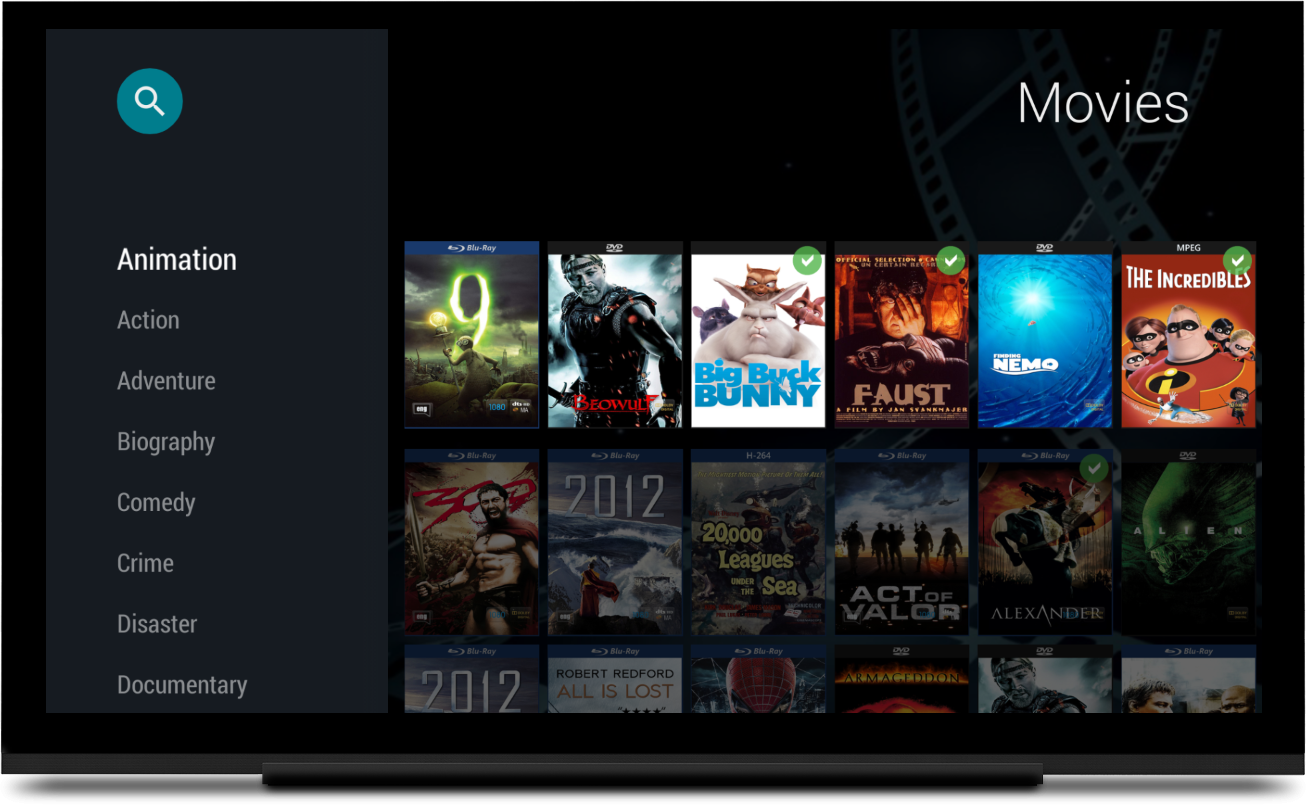
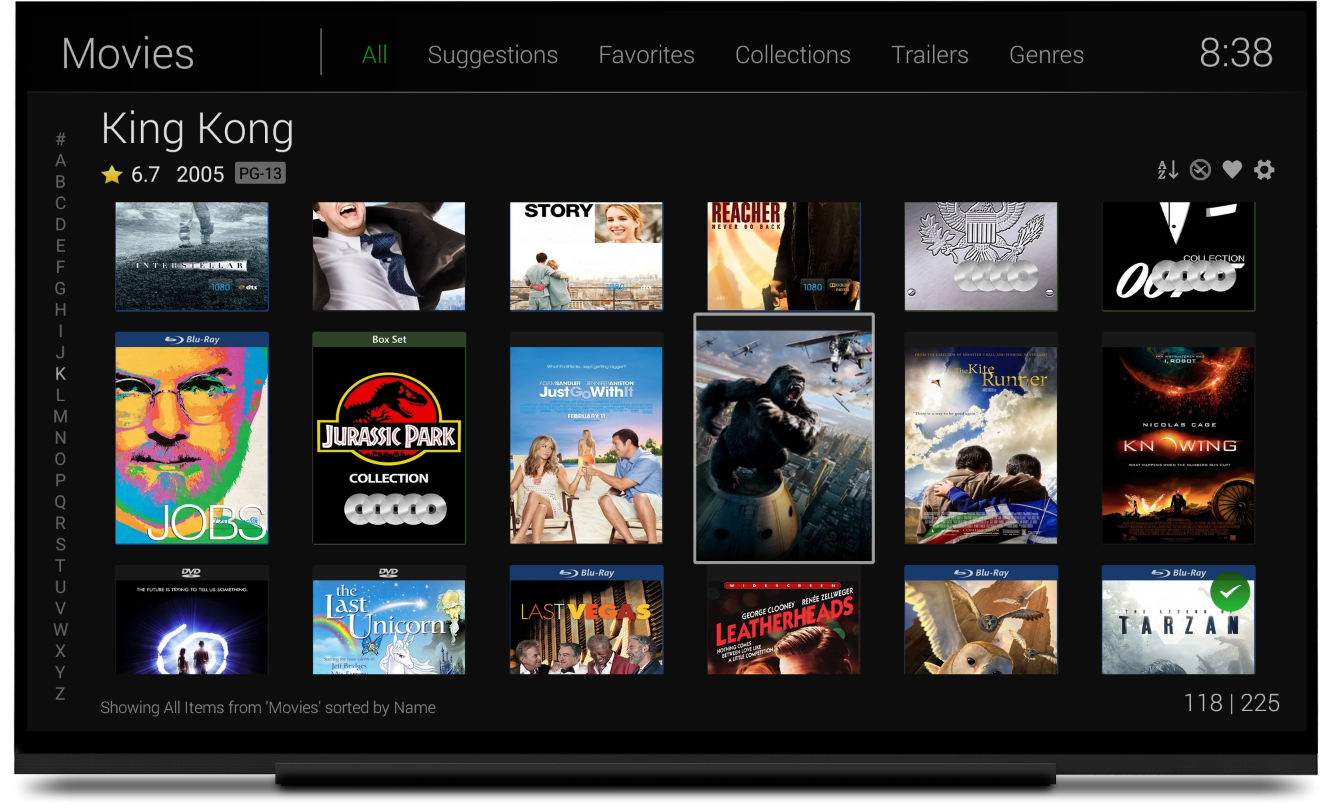
Update Android/Fire TV pages

diff --git a/src/emby-for-fire-tv.html b/src/emby-for-fire-tv.html
@@ -1,10 +1,10 @@
 <!DOCTYPE html>
-<!-- saved from url=(0046)https://emby.media/downloads/emby-for-fire-tv/ -->
+<!-- saved from url=(0049)emby-for-android-tv.html -->
 <html prefix="og: http://ogp.me/ns#" class="no-touch" lang="en-US">
 <head itemscope itemtype="http://schema.org/Article">
     <meta http-equiv="Content-Type" content="text/html; charset=UTF-8">
     <meta charset="UTF-8">
-    <title>Emby for Amazon Fire TV - Emby</title>
+    <title>Emby for Fire TV - Emby</title>
 
     <meta name="viewport" content="width=device-width, initial-scale=1, maximum-scale=1">
     <meta name="description" content="media server for personal streaming movies tv music photos in mobile app or browser for all devices android iOS windows phone appletv androidtv smarttv and dlna">
@@ -286,8 +286,8 @@
     <script type="text/javascript" src="resources/ultimate-params.min.js"></script>
 
 
-    <link rel="prev" title="Emby for iOS" href="emby-for-ios.html">
-    <link rel="next" title="Emby for Android" href="emby-for-android-mobile.html">
+    <link rel="prev" title="Emby for Android" href="emby-for-android-mobile.html">
+    <link rel="next" title="Emby Web Client" href="emby-web-client.html">
     <!--[if IE 8]><link rel="stylesheet" type="text/css" href="resources/vc-ie8.css" media="screen"><![endif]-->
     <link rel="apple-touch-icon" sizes="57x57" href="apple-touch-icon-57x57.png">
     <link rel="apple-touch-icon" sizes="60x60" href="apple-touch-icon-60x60.png">
@@ -323,7 +323,7 @@
         /** Ultimate: Media Responsive - **/
     </style>
 </head>
-<body class="single single-us_portfolio postid-5252 l-body us-theme_zephyr_1-6 wpb-js-composer js-comp-ver-4.5.2 vc_responsive hasGoogleVoiceExt">
+<body class="single single-us_portfolio postid-5249 l-body us-theme_zephyr_1-6 wpb-js-composer js-comp-ver-4.5.2 vc_responsive hasGoogleVoiceExt">
     <!-- CANVAS -->
     <div class="l-canvas type_wide col_cont headerlayout_extended headerpos_fixed">
 
@@ -411,11 +411,11 @@
             <div class="l-submain for_pagehead color_alternate size_large" style="padding-top: 140px;">
                 <div class="l-submain-h g-html i-cf">
                     <div class="w-pagehead">
-                        <h1>Emby for Amazon Fire TV</h1>
+                        <h1>Emby for Fire TV</h1>
                         <div class="w-pagehead-nav">
                             <div class="w-pagehead-nav-h">
-                                <a class="w-pagehead-nav-item type_prev" href="emby-for-android-mobile.html" title="Emby for Android"><i class="mdfi_navigation_chevron_left"></i></a>
-                                <a class="w-pagehead-nav-item type_next" href="emby-for-ios.html" title="Emby for iOS"><i class="mdfi_navigation_chevron_right"></i></a>
+                                <a class="w-pagehead-nav-item type_prev" href="emby-web-client.html" title="Emby Web Client"><i class="mdfi_navigation_chevron_left"></i></a>
+                                <a class="w-pagehead-nav-item type_next" href="emby-for-android-mobile.html" title="Emby for Android"><i class="mdfi_navigation_chevron_right"></i></a>
                             </div>
                         </div>
                     </div>
@@ -430,67 +430,58 @@
 
                                     <h2>What you want to watch – right up front</h2>
                                     <p>Designed with with typical usage in mind, you won’t have to go hunting through your library to find the content you are most likely wanting to watch right now. The home screen shows you the items you were watching but hadn’t finished, your latest un-watched movies, the next episode of all your current TV shows and what’s on Live TV right now.</p>
-                                    <p>
-                                        <img src="resources/5537f5f940bcb_firehome21.png">
-                                    </p>
+                                    <p><img src="resources/atvnocards1.png"></p>
 
                                 </div>
                             </div>
-                        </div>
-                        <div class="one-third">
+                        </div><div class="one-third">
                             <div class="wpb_text_column ">
                                 <div class="wpb_wrapper">
 
                                     <h3>Download</h3>
                                     <p>Emby for Fire TV is available in the Amazon App Store.</p>
                                     <div>
-                                        <a href="http://www.amazon.com/Emby-for-Fire-TV/dp/B00VVJKTW8" target="_blank"><img class="alignnone size-medium wp-image-5449" src="resources/amazonapp.png" alt="playsstore" style="max-height: 54px;"></a>
+                                        <a href="https://www.amazon.com/Emby-for-Fire-TV/dp/B00VVJKTW8/ref=sr_1_1?ie=UTF8&qid=1548609948&sr=8-1&keywords=emby" target="_blank"><img class="alignnone size-medium wp-image-5449" src="resources/amazonapp.png" alt="apstore" style="max-height:54px;"></a>
                                     </div>
 
-
-                                    <br />
-                                    <div>
-                                        <span class="wpb_button align_left"><a href="https://github.com/MediaBrowser/Wiki/wiki/Fire%20TV" target="_blank" class="g-btn color_primary type_raised"><i class="fa fa-info-circle"></i><span>Wiki</span><span class="ripple-container"></span></a></span>
+                                    <br />							<div>
+                                        <span class="wpb_button align_left"><a href="https://github.com/MediaBrowser/Wiki/wiki/Android%20TV" target="_blank" class="g-btn color_primary type_raised"><i class="fa fa-info-circle"></i><span>Wiki</span><span class="ripple-container"></span></a></span>
                                     </div>
                                     <div>
                                         <span class="wpb_button align_left"><a href="http://emby.media/community/index.php?/forum/147-android-tv-fire-tv" target="_blank" class="g-btn color_primary type_raised"><i class="fa fa-info-circle"></i><span>Community</span><span class="ripple-container"></span></a></span>
                                     </div>
-
                                 </div>
                             </div>
                         </div>
-                    </div>
-                    <!-- Row Backgrounds -->
-                    <div class="upb_no_bg" data-fadeout="" data-fadeout-percentage="30" data-parallax-content="" data-parallax-content-sense="30" data-row-effect-mobile-disable="true" data-img-parallax-mobile-disable="true" data-rtl="false" data-custom-vc-row="" data-vc="4.5.2" data-theme-support=""></div><div class="g-cols wpb_row offset_wide">
+                    </div><!-- Row Backgrounds --><div class="upb_no_bg" data-fadeout="" data-fadeout-percentage="30" data-parallax-content="" data-parallax-content-sense="30" data-row-effect-mobile-disable="true" data-img-parallax-mobile-disable="true" data-rtl="false" data-custom-vc-row="" data-vc="4.5.2" data-theme-support=""></div><div class="g-cols wpb_row offset_wide">
                         <div class="full-width">
                             <div class="wpb_text_column ">
                                 <div class="wpb_wrapper">
 
                                     <h2 style="margin-top:1em;">Fast, easy browsing</h2>
                                     <p>For those times you do want to peruse your library, Emby for Android TV makes it a breeze. Providing several ways to traverse your content and rich search capability, you’ll find what you’re looking for in no time.</p>
-                                    <div id="gallery_408676" class="w-gallery columns_2 type_masonry with_indents animate_revealgrid"> <div class="w-gallery-tnails" style="position: relative; height: 711px;"><a class="w-gallery-tnail order_1 animate_reveal" href="resources/atv1.png" title="atv1" style="position: absolute; left: 0px; top: 0px;"><img width="600" height="371" src="resources/atv1-600x371.png" class="w-gallery-tnail-img" alt="atv1"><span class="w-gallery-tnail-title"></span></a><a class="w-gallery-tnail order_2 animate_reveal" href="resources/atv2.png" title="atv2" style="position: absolute; left: 572px; top: 0px;"><img width="600" height="372" src="resources/atv2-600x372.png" class="w-gallery-tnail-img" alt="atv2"><span class="w-gallery-tnail-title"></span></a><a class="w-gallery-tnail order_3 animate_reveal" href="resources/atv3.png" title="atv3" style="position: absolute; left: 0px; top: 355px;"><img width="600" height="372" src="resources/atv3-600x372.png" class="w-gallery-tnail-img" alt="atv3"><span class="w-gallery-tnail-title"></span></a><a class="w-gallery-tnail order_4 animate_reveal" href="resources/atv4.png" title="atv4" style="position: absolute; left: 572px; top: 356px;"><img width="600" height="371" src="resources/atv4-600x371.png" class="w-gallery-tnail-img" alt="atv4"><span class="w-gallery-tnail-title"></span></a></div> </div>
-
+                                    <div id="gallery_408676" class="w-gallery columns_2 type_masonry with_indents animate_revealgrid"> <div class="w-gallery-tnails" style="position: relative; height: 711px;"><a class="w-gallery-tnail order_1 animate_reveal" href="resources/atvnewhome.png" title="atv1" style="position: absolute; left: 0px; top: 0px;"><img width="600" height="371" src="resources/atvnewhome-600x373.png" class="w-gallery-tnail-img" alt="atv1"><span class="w-gallery-tnail-title"></span></a><a class="w-gallery-tnail order_2 animate_reveal" href="resources/atv2.png" title="atv2" style="position: absolute; left: 572px; top: 0px;"><img width="600" height="372" src="resources/atv2-600x363.png" class="w-gallery-tnail-img" alt="atv2"><span class="w-gallery-tnail-title"></span></a><a class="w-gallery-tnail order_3 animate_reveal" href="resources/atv3.png" title="atv3" style="position: absolute; left: 0px; top: 355px;"><img width="600" height="372" src="resources/atv3-600x363.png" class="w-gallery-tnail-img" alt="atv3"><span class="w-gallery-tnail-title"></span></a><a class="w-gallery-tnail order_4 animate_reveal" href="resources/atv4.png" title="atv4" style="position: absolute; left: 572px; top: 356px;"><img width="600" height="371" src="resources/atv4-600x363.png" class="w-gallery-tnail-img" alt="atv4"><span class="w-gallery-tnail-title"></span></a></div> </div>
                                     <h2 style="margin-top:1em;">Rediscover your content</h2>
                                     <p>Emby for Android TV also uses the power of the server to help you find movies to watch for the first time or over and over.</p>
                                     <p><img src="resources/5537f8e644beb_ftvsuggested.png"></p>
                                     <h2 style="margin-top:1em;">The Best Way to Watch Live TV</h2>
                                     <p>The Emby Live TV Guide helps you find what you're looking for quickly and easily.</p>
-                                    <p><img src="resources/atv9.png"></p>
+                                    <p><img src="resources/atvguide.png"></p>
                                     <h2 style="margin-top:1em;">Fast Channel Changing</h2>
                                     <p>In-video controls make for fast and easy channel changing.</p>
-                                    <p><img src="resources/atv10.png"></p>
+                                    <p><img src="resources/atvosguide.png"></p>
                                     <h2 style="margin-top:1em;">Never Miss a Show with Emby DVR</h2>
                                     <p>The Emby DVR allows you to quickly schedule and manage recordings using a simple and elegant interface.</p>
                                     <p><img src="resources/atv11.png"></p>
                                     <h2 style="margin-top:1em;">A Beautiful Way to Play Your Music</h2>
                                     <p>Easily play your favorite music albums, artists, genres, or instant mixes.</p>
-                                    <p><img src="resources/atv7.png"></p>
+                                    <p><img src="resources/atvlatestmusic.png"></p>
                                     <h2 style="margin-top:1em;">Easy Now Playing Queue</h2>
                                     <p>The app features a beautiful graphical interface that allows you to quickly move within your playlists.</p>
                                     <p><img src="resources/atv8.png"></p>
                                     <h2 style="margin-top:1em;">The next of a new generation</h2>
                                     <p>The new Emby for Android TV app is another in our new generation of more intelligent apps for all your devices. Designed more like the web client and fantastic Windows 8.1 and Win Phone apps, the Emby for Android TV app continues our commitment to make Emby the absolute best solution for your personal media collection.</p>
-                                    <p><img src="resources/atv6.png"></p>
+                                    <p><img src="resources/atvactor.png"></p>
 
                                 </div>
                             </div>
@@ -527,7 +518,7 @@
 
     </div>
     <!-- /FOOTER -->
-    <a class="w-toplink" href="#"><i class="mdfi_hardware_keyboard_arrow_up"></i></a>
+    <a class="w-toplink" href="emby-for-android-tv.html#"><i class="mdfi_hardware_keyboard_arrow_up"></i></a>
     <script type="text/javascript">
         if (window.$us === undefined) window.$us = {};
         $us.canvasOptions = ($us.canvasOptions || {});
@@ -562,8 +553,8 @@
 
 
 
-    <!-- Dynamic page generated in 0.152 seconds. -->
-    <!-- Cached page generated by WP-Super-Cache on 2016-01-02 20:01:22 -->
+    <!-- Dynamic page generated in 0.131 seconds. -->
+    <!-- Cached page generated by WP-Super-Cache on 2016-01-03 13:03:39 -->
     <!-- Compression = gzip -->
 </body>
 </html>

diff --git a/src/emby-for-android-tv.html b/src/emby-for-android-tv.html
@@ -430,7 +430,7 @@
 
                                     <h2>What you want to watch – right up front</h2>
                                     <p>Designed with with typical usage in mind, you won’t have to go hunting through your library to find the content you are most likely wanting to watch right now. The home screen shows you the items you were watching but hadn’t finished, your latest un-watched movies, the next episode of all your current TV shows and what’s on Live TV right now.</p>
-                                    <p><img src="resources/5537f5f940bcb_firehome21.png"></p>
+                                    <p><img src="resources/atvnocards1.png"></p>
 
                                 </div>
                             </div>
@@ -460,32 +460,33 @@
 
                                     <h2 style="margin-top:1em;">Fast, easy browsing</h2>
                                     <p>For those times you do want to peruse your library, Emby for Android TV makes it a breeze. Providing several ways to traverse your content and rich search capability, you’ll find what you’re looking for in no time.</p>
-                                    <div id="gallery_408676" class="w-gallery columns_2 type_masonry with_indents animate_revealgrid"> <div class="w-gallery-tnails" style="position: relative; height: 711px;"><a class="w-gallery-tnail order_1 animate_reveal" href="resources/atv1.png" title="atv1" style="position: absolute; left: 0px; top: 0px;"><img width="600" height="371" src="resources/atv1-600x371.png" class="w-gallery-tnail-img" alt="atv1"><span class="w-gallery-tnail-title"></span></a><a class="w-gallery-tnail order_2 animate_reveal" href="resources/atv2.png" title="atv2" style="position: absolute; left: 572px; top: 0px;"><img width="600" height="372" src="resources/atv2-600x372.png" class="w-gallery-tnail-img" alt="atv2"><span class="w-gallery-tnail-title"></span></a><a class="w-gallery-tnail order_3 animate_reveal" href="resources/atv3.png" title="atv3" style="position: absolute; left: 0px; top: 355px;"><img width="600" height="372" src="resources/atv3-600x372.png" class="w-gallery-tnail-img" alt="atv3"><span class="w-gallery-tnail-title"></span></a><a class="w-gallery-tnail order_4 animate_reveal" href="resources/atv4.png" title="atv4" style="position: absolute; left: 572px; top: 356px;"><img width="600" height="371" src="resources/atv4-600x371.png" class="w-gallery-tnail-img" alt="atv4"><span class="w-gallery-tnail-title"></span></a></div> </div>
+                                    <div id="gallery_408676" class="w-gallery columns_2 type_masonry with_indents animate_revealgrid"> <div class="w-gallery-tnails" style="position: relative; height: 711px;"><a class="w-gallery-tnail order_1 animate_reveal" href="resources/atvnewhome.png" title="atv1" style="position: absolute; left: 0px; top: 0px;"><img width="600" height="371" src="resources/atvnewhome-600x373.png" class="w-gallery-tnail-img" alt="atv1"><span class="w-gallery-tnail-title"></span></a><a class="w-gallery-tnail order_2 animate_reveal" href="resources/atv2.png" title="atv2" style="position: absolute; left: 572px; top: 0px;"><img width="600" height="372" src="resources/atv2-600x363.png" class="w-gallery-tnail-img" alt="atv2"><span class="w-gallery-tnail-title"></span></a><a class="w-gallery-tnail order_3 animate_reveal" href="resources/atv3.png" title="atv3" style="position: absolute; left: 0px; top: 355px;"><img width="600" height="372" src="resources/atv3-600x363.png" class="w-gallery-tnail-img" alt="atv3"><span class="w-gallery-tnail-title"></span></a><a class="w-gallery-tnail order_4 animate_reveal" href="resources/atv4.png" title="atv4" style="position: absolute; left: 572px; top: 356px;"><img width="600" height="371" src="resources/atv4-600x363.png" class="w-gallery-tnail-img" alt="atv4"><span class="w-gallery-tnail-title"></span></a></div> </div>
 
                                     <h2 style="margin-top:1em;">Supports the Latest Android Features</h2>
                                     <p>Emby for Android TV can passthrough HD Audio to your receiver, including DTS-HD MA and TrueHD Atmos (compatible devices required). </p>
                                     <p>Emby for Android TV also supports 4K video, HDR, voice-activated search, gamepad control and more. </p>
+                                    <p><img src="resources/atvgoogle.png"></p>
                                     <h2 style="margin-top:1em;">Rediscover your content</h2>
                                     <p>Emby for Android TV also uses the power of the server to help you find movies to watch for the first time or over and over.</p>
                                     <p><img src="resources/5537f8e644beb_ftvsuggested.png"></p>
                                     <h2 style="margin-top:1em;">The Best Way to Watch Live TV</h2>
                                     <p>The Emby Live TV Guide helps you find what you're looking for quickly and easily.</p>
-                                    <p><img src="resources/atv9.png"></p>
+                                    <p><img src="resources/atvguide.png"></p>
                                     <h2 style="margin-top:1em;">Fast Channel Changing</h2>
                                     <p>In-video controls make for fast and easy channel changing.</p>
-                                    <p><img src="resources/atv10.png"></p>
+                                    <p><img src="resources/atvosguide.png"></p>
                                     <h2 style="margin-top:1em;">Never Miss a Show with Emby DVR</h2>
                                     <p>The Emby DVR allows you to quickly schedule and manage recordings using a simple and elegant interface.</p>
                                     <p><img src="resources/atv11.png"></p>
                                     <h2 style="margin-top:1em;">A Beautiful Way to Play Your Music</h2>
                                     <p>Easily play your favorite music albums, artists, genres, or instant mixes.</p>
-                                    <p><img src="resources/atv7.png"></p>
+                                    <p><img src="resources/atvlatestmusic.png"></p>
                                     <h2 style="margin-top:1em;">Easy Now Playing Queue</h2>
                                     <p>The app features a beautiful graphical interface that allows you to quickly move within your playlists.</p>
                                     <p><img src="resources/atv8.png"></p>
                                     <h2 style="margin-top:1em;">The next of a new generation</h2>
                                     <p>The new Emby for Android TV app is another in our new generation of more intelligent apps for all your devices. Designed more like the web client and fantastic Windows 8.1 and Win Phone apps, the Emby for Android TV app continues our commitment to make Emby the absolute best solution for your personal media collection.</p>
-                                    <p><img src="resources/atv6.png"></p>
+                                    <p><img src="resources/atvactor.png"></p>
 
                                 </div>
                             </div>
